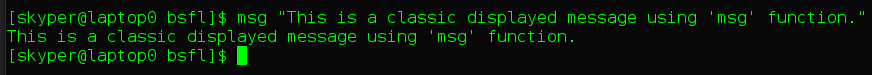
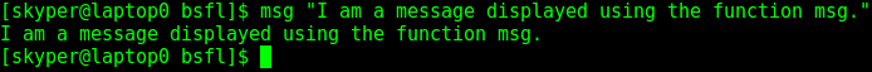
fix typos

Changed region(s): [[0.0, 0.0, 1.0, 1.0]]

diff --git a/index.html b/index.html
@@ -54,16 +54,16 @@
 				<section>
 					<h2>What is BSFL ?</h2>
 					<p class="fragment grow">One-file Bash library</p>
-					<p class="fragment grow">Free Open Source Software (<a href="http://opensource.org/licenses/BSD-3-Clause">New BSD</a>)</p>
+					<p class="fragment grow">Free open-source software (<a href="http://opensource.org/licenses/BSD-3-Clause">New BSD</a>)</p>
 					<p class="fragment grow">Forked from Louwrentius' work</p>
 				</section>
 
 				<section>
-					<h2>What can we do with that ?</h2>
+					<h2>What can we do with it ?</h2>
 					<p class="fragment grow">Display well-presented messages</p>
 					<p class="fragment grow">Log easily what your script does</p>
 					<p class="fragment grow">Handle commands' output</p>
-					<p class="fragment grow">Test network informations (IPv4, FQDN, ...)</p>
+					<p class="fragment grow">Test network information (IPv4, FQDN, ...)</p>
 					<p class="fragment grow">Use timers</p>
 					<p class="fragment grow">Manipulate arrays intuitively</p>
 					<p>...</p>
@@ -84,7 +84,7 @@
 				<section>
 					<section>
 						<h2>How to use it ?</h2>
-						<p>Use version 4 of Bash and include BSFL at the beginning of your script</p>
+						<p>Use version 4 of Bash and include BSFL at the beginning of your scripts</p>
 					</section>
 					<section>
 						<h2>Relative path</h2>
@@ -117,7 +117,7 @@ source /opt/bsfl/bsfl.sh
 						<h2>Messages</h2>
 						<p><small>Display a simple message :</small></p>
 						<pre><code data-trim>
-msg "This is a classic displayed message using 'msg' function."
+msg "I am a message displayed using the function msg."
 						</code></pre>
 						<figure><img src="img/msg_1.png" alt="simple message"></figure>
 					</section>
@@ -125,8 +125,8 @@ msg "This is a classic displayed message using 'msg' function."
 						<h2>Messages</h2>
 						<p><small>With a specific color :</small></p>
 						<pre><code data-trim>
-msg "This is a red displayed message using 'msg' function
-with color parameter." "$RED"
+msg "I am a red-colored message displayed using the function msg
+with a color parameter." "$RED"
 						</code></pre>
 						<figure><img src="img/msg_2.png" alt="message with color"></figure>
 					</section>
@@ -134,8 +134,8 @@ with color parameter." "$RED"
 						<h2>Messages</h2>
 						<p><small>With a status :</small></p>
 						<pre><code data-trim>
-msg_alert "This is a displayed message with its status using
-'msg_alert' function."
+msg_alert "I am an alert message displayed using the
+function msg_alert."
 						</code></pre>
 						<figure><img src="img/msg_3.png" alt="message with alert status"></figure>
 					</section>
@@ -165,7 +165,7 @@ msg_alert "This is a displayed message with its status using
 						<h2>Logs</h2>
 						<p><small>Log a simple message :</small></p>
 						<pre><code data-trim>
-log "This is a simple message to log."
+log "I am a message logged using the function log."
 						</code></pre>
 						<figure><img src="img/log_1.png" alt="log a simple message"></figure>
 					</section>
@@ -173,8 +173,8 @@ log "This is a simple message to log."
 						<h2>Logs</h2>
 						<p><small>With a status :</small></p>
 						<pre><code data-trim>
-log_critical "This is a logged message using 'log_critical'
-function."
+log_critical "I am a critical message logged using the
+function log_critical."
 						</code></pre>
 						<figure><img src="img/log_2.png" alt="log a critical message"></figure>
 					</section>
@@ -208,7 +208,7 @@ LOG_ENABLED=y
 declare LOG_FILE="$0.log"
 						</code></pre>
 						<p><small>For exemple, for <b>test.sh</b>, the log file will be <b>test.sh.log</b></small></p>
-						<p><small>You can overwrite this behavior :</small></p>
+						<p><small>You can override this behaviour :</small></p>
 						<pre><code data-trim>
 LOG_FILE="filename.log"
 						</code></pre>
@@ -232,12 +232,12 @@ msg "Thus, this message is logged in a file."
 cmd "ls -al"
 cmd "pnig 8.8.8.8"
 						</code></pre>
-						<p><small>The <b>cmd</b> function handles the output depending on the command's status :</small></p>
+						<p><small>The function <b>cmd</b> handles the output depending on the command's status :</small></p>
 						<figure><img src="img/cmd_1.png" alt="simple command"></figure>
 					</section>
 					<section>
 						<h2>Commands</h2>
-						<p><small>By default, the command's result is not displayed. To overwrite this behavior :</small></p>
+						<p><small>By default, the command's result is not displayed. To override this behaviour :</small></p>
 						<pre><code data-trim>
 DEBUG=y
 cmd "ls -al"
@@ -265,7 +265,7 @@ cmd "is_ipv4_subnet 192.168.1.0/24"
 					</section>
 					<section>
 						<h2>Network</h2>
-						<p><small>Test a FQDN address :</small></p>
+						<p><small>Test an FQDN address :</small></p>
 						<pre><code data-trim>
 cmd "is_fqdn www.example.net"
 						</code></pre>
